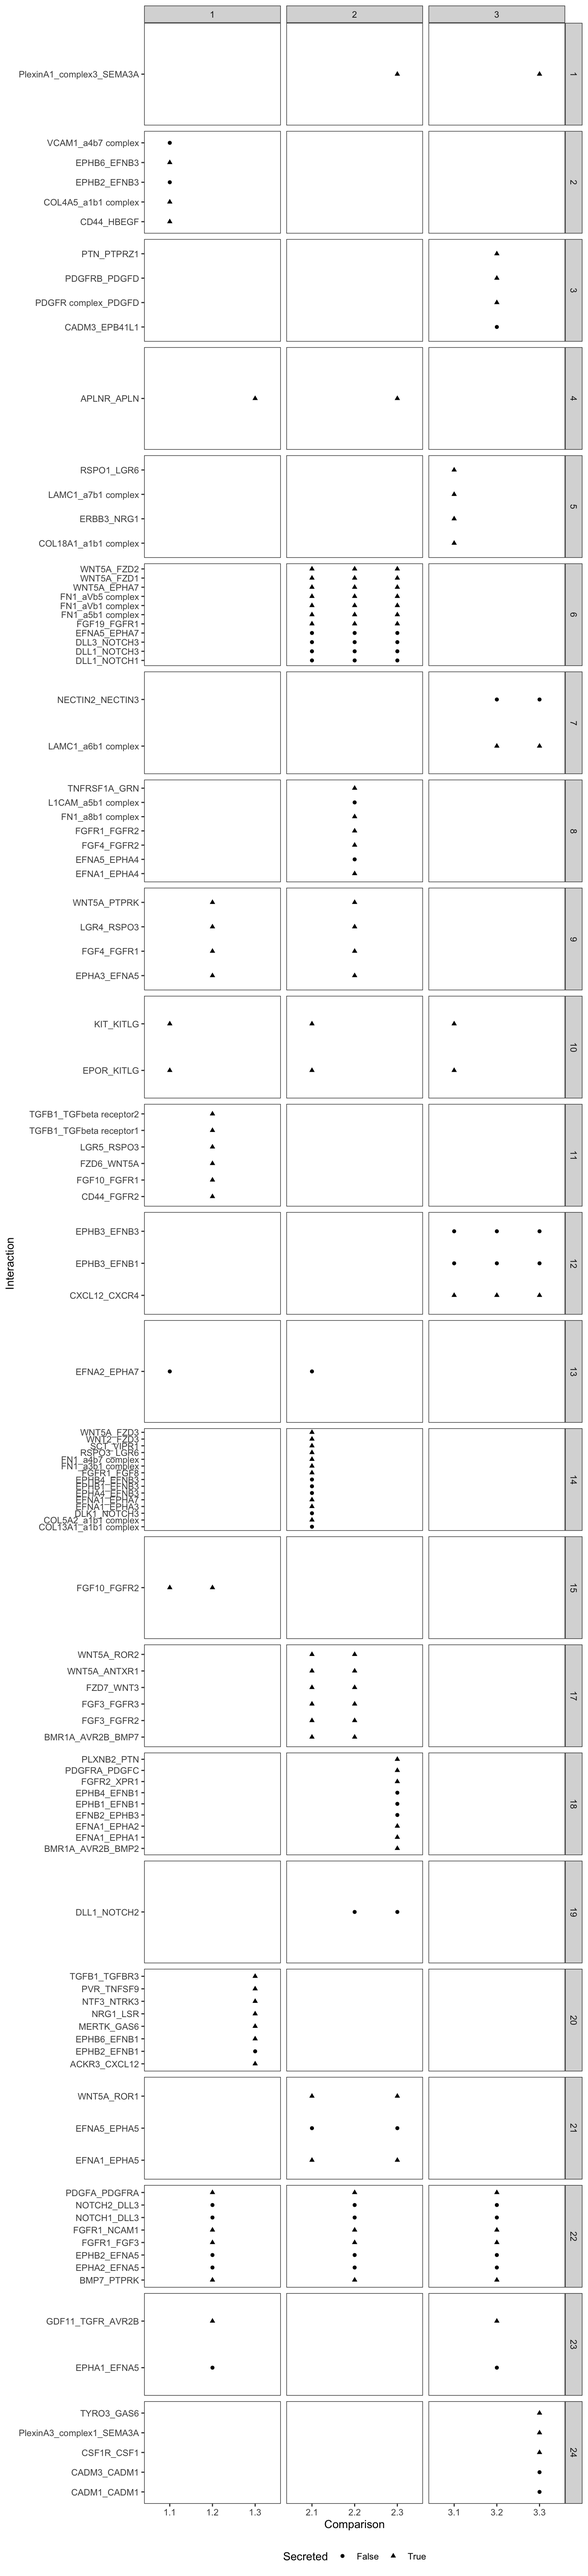
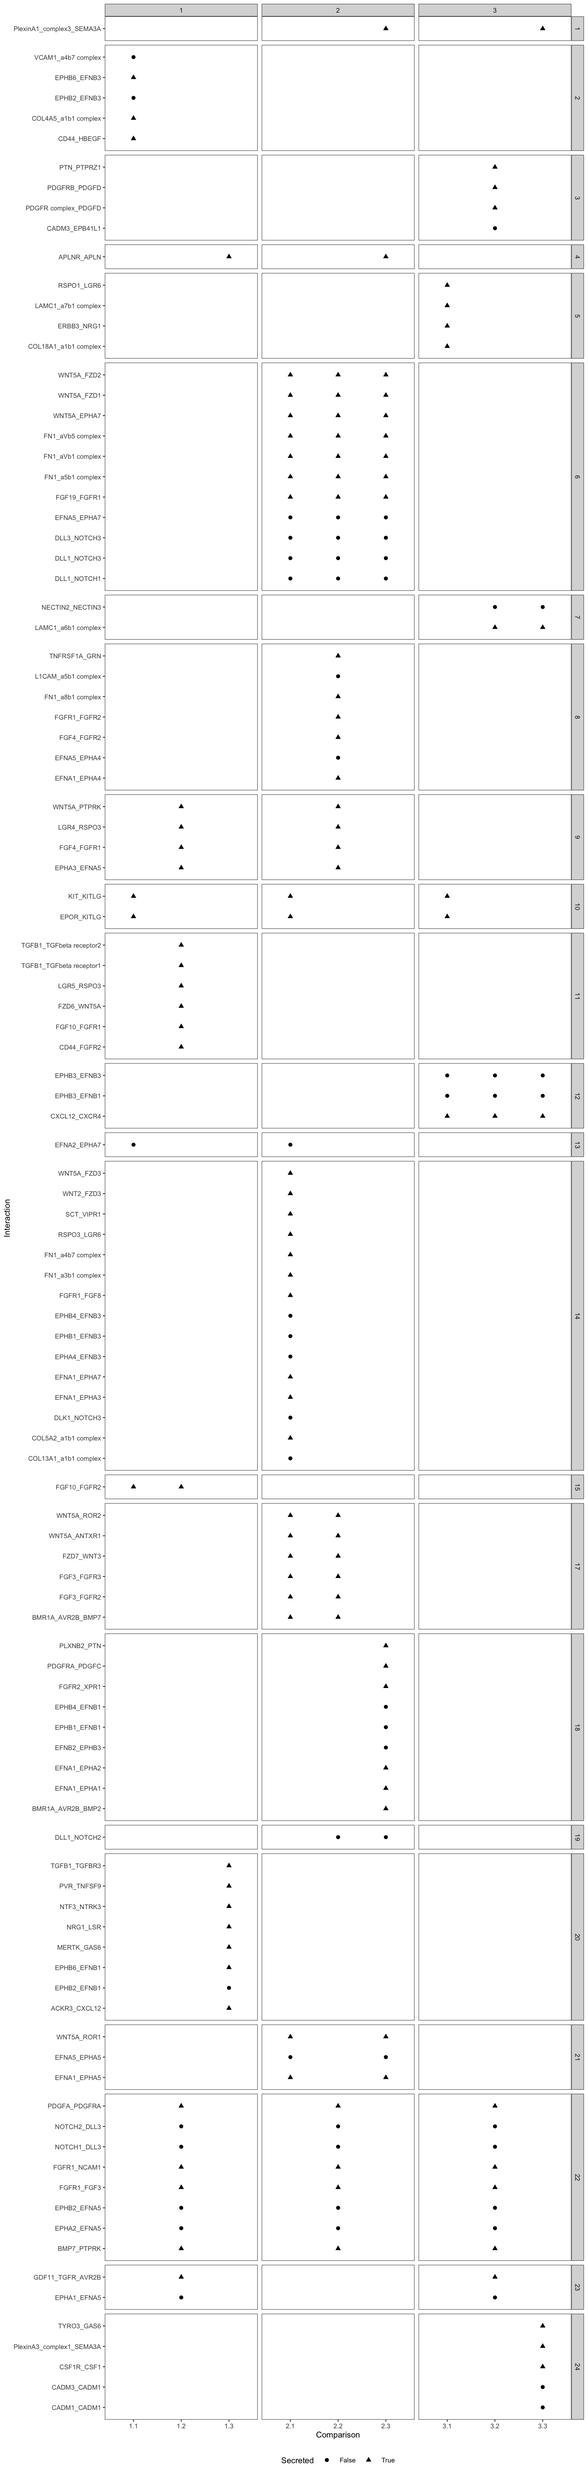
Build

diff --git a/docs/cell-signalling.html b/docs/cell-signalling.html
@@ -574,16 +574,16 @@ This reproducible <a href="http://rmarkdown.rstudio.com">R Markdown</a> analysis
 <div class="panel panel-default">
 <div class="panel-heading">
 <p class="panel-title">
-<a data-toggle="collapse" data-parent="#workflowr-checks" href="#strongRepositoryversionstrongahrefhttpsgithubcomjma1991LPMPEHFBtree37bf8a0040102369a9dd4328e21279231eccbe3ftargetblank37bf8a0a"> <span class="glyphicon glyphicon-ok text-success" aria-hidden="true"></span> <strong>Repository version:</strong> <a href="https://github.com/jma1991/LPMP_EHF_B/tree/37bf8a0040102369a9dd4328e21279231eccbe3f" target="_blank">37bf8a0</a> </a>
+<a data-toggle="collapse" data-parent="#workflowr-checks" href="#strongRepositoryversionstrongahrefhttpsgithubcomjma1991LPMPEHFBtreecc7400031426dcd21ae253242d3ba9b12623f91ctargetblankcc74000a"> <span class="glyphicon glyphicon-ok text-success" aria-hidden="true"></span> <strong>Repository version:</strong> <a href="https://github.com/jma1991/LPMP_EHF_B/tree/cc7400031426dcd21ae253242d3ba9b12623f91c" target="_blank">cc74000</a> </a>
 </p>
 </div>
[2 lines of base64/hex data omitted]
 <div class="panel-body">
 <p>
 Great! You are using Git for version control. Tracking code development and connecting the code version to the results is critical for reproducibility.
 </p>
 <p>
-The results in this page were generated with repository version <a href="https://github.com/jma1991/LPMP_EHF_B/tree/37bf8a0040102369a9dd4328e21279231eccbe3f" target="_blank">37bf8a0</a>. See the <em>Past versions</em> tab to see a history of the changes made to the R Markdown and HTML files.
+The results in this page were generated with repository version <a href="https://github.com/jma1991/LPMP_EHF_B/tree/cc7400031426dcd21ae253242d3ba9b12623f91c" target="_blank">cc74000</a>. See the <em>Past versions</em> tab to see a history of the changes made to the R Markdown and HTML files.
 </p>
 <p>
 Note that you need to be careful to ensure that all relevant files for the analysis have been committed to Git prior to generating the results (you can use <code>wflow_publish</code> or <code>wflow_git_commit</code>). workflowr only checks the R Markdown file, but you know if there are other scripts or data files that it depends on. Below is the status of the Git repository when the results were generated:
@@ -604,7 +604,6 @@ Ignored files:
 
 Unstaged changes:
     Modified:   _workflowr.R
-    Modified:   analysis/_site.yml
 
 </code></pre>
 <p>
@@ -643,6 +642,40 @@ Message
 </tr>
 </thead>
 <tbody>
+<tr>
+<td>
+Rmd
+</td>
+<td>
+<a href="https://github.com/jma1991/LPMP_EHF_B/blob/cc7400031426dcd21ae253242d3ba9b12623f91c/analysis/cell-signalling.Rmd" target="_blank">cc74000</a>
+</td>
+<td>
+James Ashmore
+</td>
+<td>
+2021-02-19
+</td>
+<td>
+Build
+</td>
+</tr>
+<tr>
+<td>
+html
+</td>
+<td>
+<a href="https://rawcdn.githack.com/jma1991/LPMP_EHF_B/08f9d231afce0afe426a7af201c79fc8bd754975/docs/cell-signalling.html" target="_blank">08f9d23</a>
+</td>
+<td>
+James Ashmore
+</td>
+<td>
+2021-02-19
+</td>
+<td>
+Build
+</td>
+</tr>
 <tr>
 <td>
 Rmd
@@ -844,25 +877,99 @@ res$cluster &lt;- knn$cluster[res$id_cp_interaction]</code></pre>
 <pre class="r"><code>ggplot(res, aes(comparison, interacting_pair, shape = secreted)) + 
   geom_point() + 
   labs(x = &quot;Comparison&quot;, y = &quot;Interaction&quot;, shape = &quot;Secreted&quot;) + 
-  facet_grid(rows = vars(cluster), cols = vars(comparison_a), scales = &quot;free&quot;) + 
-  theme_bw() + 
+  facet_grid(rows = vars(cluster), cols = vars(comparison_a), scales = &quot;free&quot;, space = &quot;free&quot;) + 
+  theme_bw(base_size = 8) + 
   theme(
     legend.position = &quot;bottom&quot;,
     panel.grid = element_blank()
   )</code></pre>
 <p><img src="figure/cell-signalling.Rmd/unnamed-chunk-26-1.png" width="768" style="display: block; margin: auto;" /></p>
+<p>
+<button type="button" class="btn btn-default btn-xs btn-workflowr btn-workflowr-fig" data-toggle="collapse" data-target="#fig-unnamed-chunk-26-1">
+Past versions of unnamed-chunk-26-1.png
+</button>
+</p>
+<div id="fig-unnamed-chunk-26-1" class="collapse">
+<div class="table-responsive">
+<table class="table table-condensed table-hover">
+<thead>
+<tr>
+<th>
+Version
+</th>
+<th>
+Author
+</th>
+<th>
+Date
+</th>
+</tr>
+</thead>
+<tbody>
+<tr>
+<td>
+<a href="https://github.com/jma1991/LPMP_EHF_B/blob/08f9d231afce0afe426a7af201c79fc8bd754975/docs/figure/cell-signalling.Rmd/unnamed-chunk-26-1.png" target="_blank">08f9d23</a>
+</td>
+<td>
+James Ashmore
+</td>
+<td>
+2021-02-19
+</td>
+</tr>
+</tbody>
+</table>
+</div>
+</div>
 <p>Plot results with effect size:</p>
 <pre class="r"><code>ggplot(res, aes(comparison, interacting_pair, colour = log2(mean + 0.001), size = -log10(pvalue + 0.001), shape = secreted)) + 
   geom_point() + 
   scale_colour_distiller(palette = &quot;Reds&quot;, direction = 1) + 
   labs(x = &quot;Comparison&quot;, y = &quot;Interaction&quot;, colour = &quot;log2(Mean)&quot;, size = &quot;-log10(P-value)&quot;, shape = &quot;Secreted&quot;) + 
-  facet_grid(rows = vars(cluster), cols = vars(comparison_a), scales = &quot;free&quot;) + 
-  theme_bw() + 
+  facet_grid(rows = vars(cluster), cols = vars(comparison_a), scales = &quot;free&quot;, space = &quot;free&quot;) + 
+  theme_bw(base_size = 8) + 
   theme(
     legend.position = &quot;bottom&quot;,
     panel.grid = element_blank()
   )</code></pre>
 <p><img src="figure/cell-signalling.Rmd/unnamed-chunk-27-1.png" width="768" style="display: block; margin: auto;" /></p>
+<p>
+<button type="button" class="btn btn-default btn-xs btn-workflowr btn-workflowr-fig" data-toggle="collapse" data-target="#fig-unnamed-chunk-27-1">
+Past versions of unnamed-chunk-27-1.png
+</button>
+</p>
+<div id="fig-unnamed-chunk-27-1" class="collapse">
+<div class="table-responsive">
+<table class="table table-condensed table-hover">
+<thead>
+<tr>
+<th>
+Version
+</th>
+<th>
+Author
+</th>
+<th>
+Date
+</th>
+</tr>
+</thead>
+<tbody>
+<tr>
+<td>
+<a href="https://github.com/jma1991/LPMP_EHF_B/blob/08f9d231afce0afe426a7af201c79fc8bd754975/docs/figure/cell-signalling.Rmd/unnamed-chunk-27-1.png" target="_blank">08f9d23</a>
+</td>
+<td>
+James Ashmore
+</td>
+<td>
+2021-02-19
+</td>
+</tr>
+</tbody>
+</table>
+</div>
+</div>
 </div>
 <div id="summary" class="section level2">
 <h2>Summary</h2>

diff --git a/docs/index.html b/docs/index.html
@@ -435,16 +435,16 @@ This reproducible <a href="http://rmarkdown.rstudio.com">R Markdown</a> analysis
 <div class="panel panel-default">
 <div class="panel-heading">
 <p class="panel-title">
-<a data-toggle="collapse" data-parent="#workflowr-checks" href="#strongRepositoryversionstrongahrefhttpsgithubcomjma1991LPMPEHFBtree59a52f61f21af19852e5ec6d6e097d4e609ea5fftargetblank59a52f6a"> <span class="glyphicon glyphicon-ok text-success" aria-hidden="true"></span> <strong>Repository version:</strong> <a href="https://github.com/jma1991/LPMP_EHF_B/tree/59a52f61f21af19852e5ec6d6e097d4e609ea5ff" target="_blank">59a52f6</a> </a>
+<a data-toggle="collapse" data-parent="#workflowr-checks" href="#strongRepositoryversionstrongahrefhttpsgithubcomjma1991LPMPEHFBtreecc7400031426dcd21ae253242d3ba9b12623f91ctargetblankcc74000a"> <span class="glyphicon glyphicon-ok text-success" aria-hidden="true"></span> <strong>Repository version:</strong> <a href="https://github.com/jma1991/LPMP_EHF_B/tree/cc7400031426dcd21ae253242d3ba9b12623f91c" target="_blank">cc74000</a> </a>
 </p>
 </div>
[2 lines of base64/hex data omitted]
 <div class="panel-body">
 <p>
 Great! You are using Git for version control. Tracking code development and connecting the code version to the results is critical for reproducibility.
 </p>
 <p>
-The results in this page were generated with repository version <a href="https://github.com/jma1991/LPMP_EHF_B/tree/59a52f61f21af19852e5ec6d6e097d4e609ea5ff" target="_blank">59a52f6</a>. See the <em>Past versions</em> tab to see a history of the changes made to the R Markdown and HTML files.
+The results in this page were generated with repository version <a href="https://github.com/jma1991/LPMP_EHF_B/tree/cc7400031426dcd21ae253242d3ba9b12623f91c" target="_blank">cc74000</a>. See the <em>Past versions</em> tab to see a history of the changes made to the R Markdown and HTML files.
 </p>
 <p>
 Note that you need to be careful to ensure that all relevant files for the analysis have been committed to Git prior to generating the results (you can use <code>wflow_publish</code> or <code>wflow_git_commit</code>). workflowr only checks the R Markdown file, but you know if there are other scripts or data files that it depends on. Below is the status of the Git repository when the results were generated:
@@ -465,7 +465,6 @@ Ignored files:
 
 Unstaged changes:
     Modified:   _workflowr.R
-    Modified:   analysis/_site.yml
 
 </code></pre>
 <p>
@@ -504,6 +503,23 @@ Message
 </tr>
 </thead>
 <tbody>
+<tr>
+<td>
+html
+</td>
+<td>
+<a href="https://rawcdn.githack.com/jma1991/LPMP_EHF_B/1351726dafb06d4456df368278505ef5c8531c1e/docs/index.html" target="_blank">1351726</a>
+</td>
+<td>
+James Ashmore
+</td>
+<td>
+2021-02-19
+</td>
+<td>
+Build
+</td>
+</tr>
 <tr>
 <td>
 html
